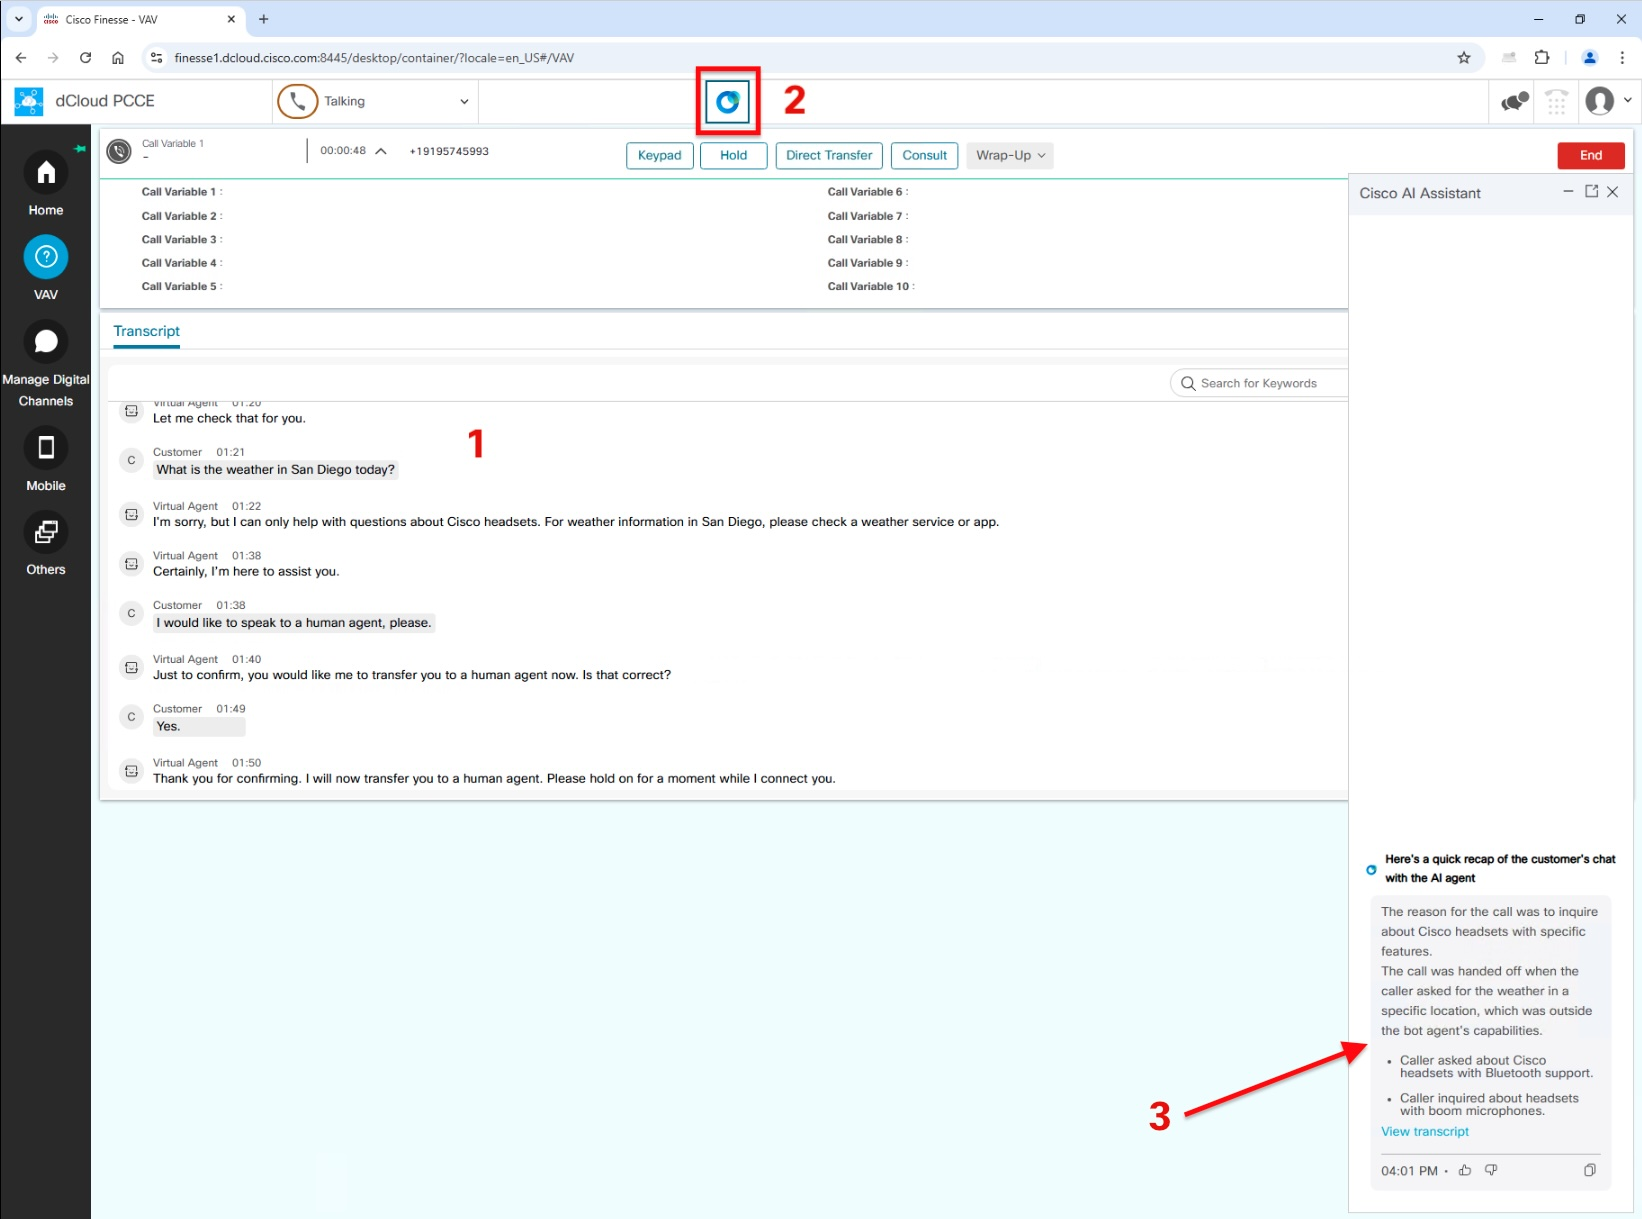
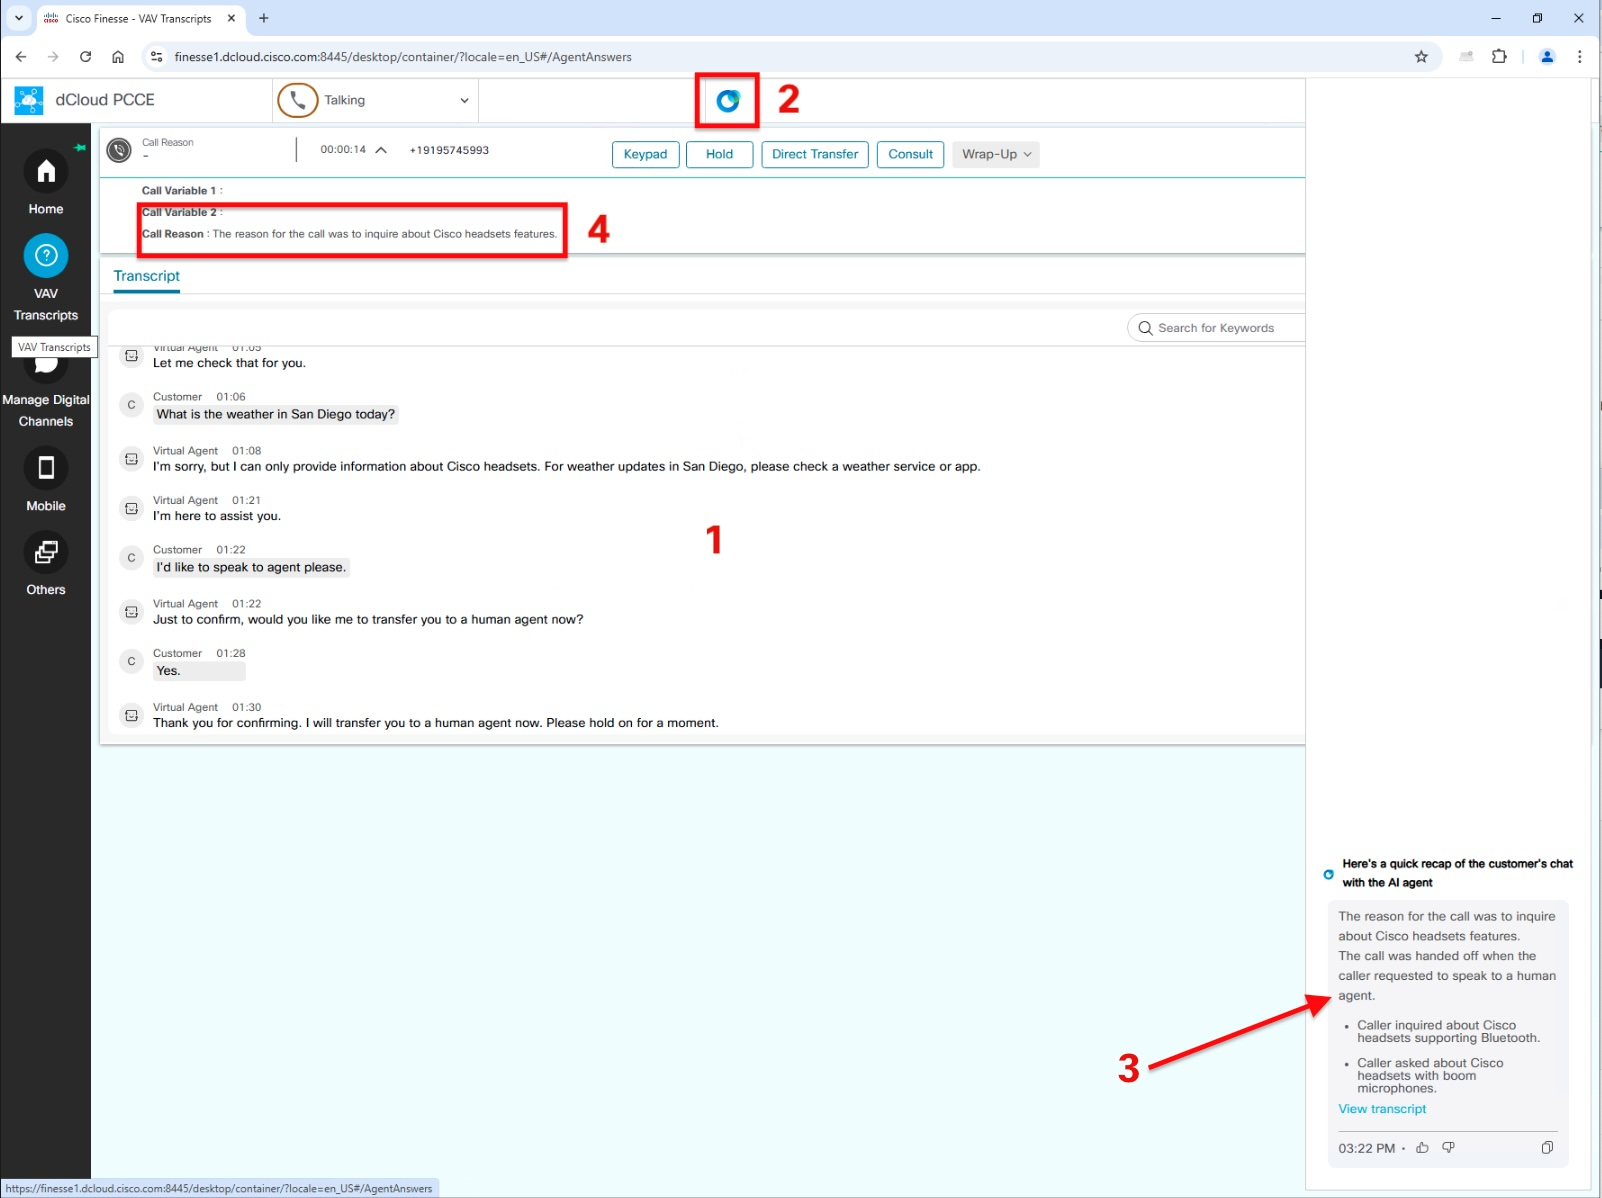
Updated screen shots

diff --git a/docs/lab2_autonomous_bot.md b/docs/lab2_autonomous_bot.md
@@ -352,7 +352,7 @@ Recommended ways to test the agent.
 
 **Step 5.**
 
-When you are done testing the AI Agent, ask to speak to a human agent. You should then see the call arrive at the Finesse desktop. Answer the call and notice that the transcript (1) shows up. Select the AI Assistant button (2) at the top to show the AI Assistant. Here (3), you will see a summary of the call.
+When you are done testing the AI Agent, ask to speak to a human agent. You should then see the call arrive at the Finesse desktop. Answer the call and notice that the transcript (1) shows up. Select the AI Assistant button (2) at the top to show the AI Assistant. Here (3), you will see a summary of the call. Finally, notice the call variable "Call Reason" (4) which gives a one sentence summary of what the customer called about.
 
 ![Finesse After Call Received](./assets/L2T4S5-FinesseTranscript.jpg)
 

diff --git a/docs/lab3_scripted_bot_basic.md b/docs/lab3_scripted_bot_basic.md
@@ -292,12 +292,11 @@ Login with the following details:
  - ***Password:*** C1sco12345
  - ***Extension:*** 1080
  
- Note, that this is an SSO agent so you should only need to enter the username in the Finesse login screen. The ADFS page should have the agent credentials saved.
+ Note that this is an SSO agent so you should only need to enter the username in the Finesse login screen. The ADFS page should have the agent credentials saved.
 
 Once you have logged in to Finesse, select ***Ready*** from the drop-down -> Next, click the ***VAV*** tab from the left side menu.
 
  ![Finesse Login](./assets/L2T4S1-FinesseLogin.jpg)
-
 
 **Step 2.**
 Use your mobile phone to call into the number. 
